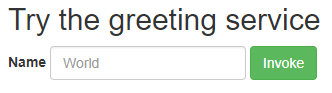
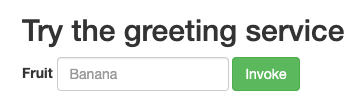
Updates for Spring Boot externalized configuration
Part of openshift-labs/learn-katacoda#1060

Changed region(s): [[0.0, 0.086, 0.9639, 0.4516], [0.0, 0.4946, 0.9639, 0.8602], [0.8434, 0.086, 0.8735, 0.129]]

diff --git a/middleware/middleware-spring-boot/microservices-1/02-deploy-to-openshift.md b/middleware/middleware-spring-boot/microservices-1/02-deploy-to-openshift.md
@@ -1,12 +1,8 @@
-# Login and Deploy to OpenShift Application Platform
+# Deploy to OpenShift Application Platform
 
-**1. Login to the OpenShift Container Platform**
+**1. Create a project**
 
-To login, we will use the `oc` command and then specify a username and password like this:
-
-``oc login [[HOST_SUBDOMAIN]]-8443-[[KATACODA_HOST]].environments.katacoda.com --insecure-skip-tls-verify=true -u developer -p developer``{{execute}}
-
-Next we create the project that we'll be adding our application to:
+Let's first create a new project:
 
 ``oc new-project dev --display-name="Dev - Spring Boot App"``{{execute}}
 
@@ -14,44 +10,39 @@ Next we create the project that we'll be adding our application to:
 
 Before we deploy the application, we have to make a few changes so our application runs smoothly using External Configurations.
 
-The first step is we're going to assign view access rights to the our deveoper account. We have to do this before deploying the application so that it's able to access the OpenShift API and read the contents of the ConfigMap. We can do that with the following command:
+The first step is we're going to assign view access rights to the service account we're logged in as. We have to do this before deploying the application so that it's able to access the OpenShift API and read the contents of the `ConfigMap`. We can do that with the following command:
 
 ``oc policy add-role-to-user view -n $(oc project -q) -z default``{{execute}}
 
-We should see `role "view" added: "default"` as output. The next step is to create our ConfigMap configuration and deploy it to OpenShift using:
+We should see `clusterrole.rbac.authorization.k8s.io/view added: "default"` as output. The next step is to create our `ConfigMap` configuration and deploy it to OpenShift using:
 
-``oc create configmap app-config --from-file=greeting-service/src/main/etc/application.properties``{{execute}}
+``oc create configmap spring-boot-configmap-greeting --from-file=src/main/etc/application.properties``{{execute}}
 
-We will talk about ConfigMaps in greater detail in the next section.
+We will talk about `ConfigMap`s in greater detail in the next section.
 
->**NOTE:** The only two parameters this command needs are the name of the ConfigMap to create and the file location. This command is creating a ConfigMap named `app-config`. We're going to be using that name in future commands. If you decide to manually run the command or give the ConfigMap a different name, make sure you modify the other commands accordingly.
+>**NOTE:** The only two parameters this command needs are the name of the ConfigMap to create and the file location. This command is creating a `ConfigMap` named `spring-boot-configmap-greeting`, which also happens to be the name of the application we're deploying. We're going to be using that name in future commands. If you decide to manually run the command or give the `ConfigMap` a different name, make sure you modify the other commands and configuration accordingly.
 
 Now we're ready to deploy!
 
 **3. Deploy the application to OpenShift**
 
-Run the following command to deploy the application to OpenShift
+Run the following command to deploy the application to OpenShift:
 
-``mvn package fabric8:deploy -Popenshift``{{execute}}
+``mvn oc:deploy -Popenshift``{{execute}}
 
 There's a lot that happens here so lets break it down:
 
-The `mvn package` piece of the above command instructs Maven to run the package lifecycle. This builds a Spring Boot JAR file which is a Fat Jar containing all dependencies necessary to run our application.
+For the deployment to OpenShift we are using the [JKube](https://www.eclipse.org/jkube/) tool through the [`openshift-maven-plugin`](https://www.eclipse.org/jkube/docs/openshift-maven-plugin), which is configured in our ``pom.xml``{{open}} (found in the `<profiles/>` section). The deployment may take a few minutes to complete.
 
-For the deployment to OpenShift we are using the [Fabric8](https://fabric8.io/) tool through the `fabric8-maven-plugin` which is configured in our ``pom.xml``{{open}} (found in the `<profiles/>` section).
+You can run the command ``oc rollout status -w dc/spring-boot-configmap-greeting``{{execute}} to watch and wait for the deployment to complete.
 
-Now that our application is deployed, navigate to our route in the OpenShift Web View or click [here](http://spring-boot-configmap-greeting-dev.[[HOST_SUBDOMAIN]]-80-[[KATACODA_HOST]].environments.katacoda.com/). We should see the following screen, meaning everything was successful:
+Once the application deployment completes, navigate to our route in the OpenShift Web View or click [here](http://spring-boot-configmap-greeting-dev.[[HOST_SUBDOMAIN]]-80-[[KATACODA_HOST]].environments.katacoda.com/). We should see the following screen, meaning everything was successful:
 
 ![Greeting Service](/openshift/assets/middleware/rhoar-microservices/greeting-service-mini.png)
 
 **4. Test functionality**
 
-As the page suggests, we're going to put in a name and let our greeting service reply with a given greeting. Since our default value is `Greetings, you picked %s as your favorite fruit!`, that's what we should see after we fill in the textbox and click the button. 
-
-<!-- And indeed that's what we see:
-
-![Hello Message](/openshift/assets/middleware/rhoar-microservices/hello-message.png) -->
-
+As the page suggests, we're going to put in a name of a fruit and let our greeting service reply with a given greeting. Since our default value in our `ConfigMap` is `Greetings, you picked %s as your favorite fruit!`, that's what we should see after we fill in the textbox and click the button. 
 
 ## Congratulations
 

diff --git a/middleware/middleware-spring-boot/microservices-1/03-modify-the-configmap.md b/middleware/middleware-spring-boot/microservices-1/03-modify-the-configmap.md
@@ -2,11 +2,12 @@
 
 **1. The ConfigMap**
 
-Configs maps are a useful tool for decoupling configuration settings from the code. ConfigMaps can be used to inject configuration data into a container in much the same way that secrets do, though ConfigMaps should not store confidential information. ConfigMap objects hold key-pair values representing all of your configuration data. 
+`ConfigMap`s are a useful tool for decoupling configuration settings from the code. `ConfigMap`s can be used to inject configuration data into a container in much the same way that secrets do, though `ConfigMap`s should not store confidential information. `ConfigMap` objects hold key-pair values representing all of your configuration data. 
 
-Notice the following dependency that was added to our `greeting-service/pom.xml`{{open}}. This allows us to integrate with OpenShift's ConfigMaps.
+Notice the following dependency that was added to our `pom.xml`{{open}}. This allows us to integrate with OpenShift's ConfigMaps.
 
-```    <dependency>
+```    
+     <dependency>
        <groupId>org.springframework.cloud</groupId>
        <artifactId>spring-cloud-starter-kubernetes-config</artifactId>
      </dependency>
@@ -14,33 +15,25 @@ Notice the following dependency that was added to our `greeting-service/pom.xml`
 
 **2. Modify the ConfigMap**
 
-Let's modify the greeting that our service is returning to the user. Since we set up the greeting in a properties file, we will not need to make any code change to change the functionality. This means that we won't need to have any downtime for this change, we're able to modify the response through our newly created ConfigMap from the previous step. We can edit our config map in the OpenShift Console. Click the **OpenShift Console** tab, select `Resources > Config Maps`. Then Select our ConfigMap `app-config`
+Let's modify the greeting that our service is returning to the user. Since we set up the greeting in a properties file, we will not need to make any code change to change the functionality. This means that we won't need to have any downtime for this change, we're able to modify the response through our newly created `ConfigMap` from the previous step. We can edit our config map in the OpenShift Console. [Click here](https://console-openshift-console-[[HOST_SUBDOMAIN]]-443-[[KATACODA_HOST]].environments.katacoda.com/k8s/ns/dev/configmaps/spring-boot-configmap-greeting/yaml) to open our `ConfigMap` in a YAML editor.
 
-![Greeting Service](/openshift/assets/middleware/rhoar-microservices/configmap.png)
-
-Now Select `Edit YAML` from the actions menu in the upper right corner of the page. 
-
-![Greeting Service](/openshift/assets/middleware/rhoar-microservices/edityaml.png)
+   > **NOTE:** The username/password for the OpenShift console is `admin`.
 
 Change the `greeting.message` property to: `greeting.message=Bonjour, you picked %s as your favorite fruit!`
 
 ![Greeting Service](/openshift/assets/middleware/rhoar-microservices/editconfigmap.png)
 
-Hit `Save` and that's all there is to it!
+Hit `Save` (at the bottom of the editor) and that's all there is to it!
 
 **3. Test changes**
 
-Now that we've modified the ConfigMap and deployed our changes, let's test the greeting service and see if it's returning our new value.
+Now that we've modified the `ConfigMap` and deployed our changes, let's test the greeting service and see if it's returning our new value.
 Click [here](http://spring-boot-configmap-greeting-dev.[[HOST_SUBDOMAIN]]-80-[[KATACODA_HOST]].environments.katacoda.com/) and put in a test value and click the button. Now instead of seeing `Greetings ...`, we should be seeing:
 
 `Bonjour, you picked %s as your favorite fruit!`
-
-<!-- `Bonjour <name>...`! 
-
-![Bonjour Message](/openshift/assets/middleware/rhoar-microservices/bonjour-message-minier.png) -->
 
 This means that we were able to modify our application behavior through External Configuration of the `application.properties` file using a ConfigMap without having to even take down the application. That's pretty powerful!
 
 ## Congratulations
 
-You have now learned how to handle Externalized Configuration with ConfigMaps through OpenShift. By creating a configmap, we're able to modify application properties on the fly and simply rollout the new changes to our application.
+You have now learned how to handle Externalized Configuration with ConfigMaps through OpenShift. By creating a `ConfigMap`, we're able to modify application properties on the fly and simply rollout the new changes to our application.

diff --git a/middleware/middleware-spring-boot/microservices-1/01-review-the-initial-project.md b/middleware/middleware-spring-boot/microservices-1/01-review-the-initial-project.md
@@ -1,24 +1,24 @@
+# Import the code
+Let's refresh the code we'll be using. Run the following command to clone the sample project:
+
+`cd /root/projects && rm -rf rhoar-getting-started && git clone https://github.com/openshift-katacoda/rhoar-getting-started && cd rhoar-getting-started/spring/microservices-externalized-config`{{execute}}
+
 # Review the base structure of the application
-
-For your convenience, this scenario has been created using the OpenShift Launcher found [here](https://launch.openshift.io/launch/filtered-wizard/all). This launcher will automatically generate a zip file of a project that's in a ready-to-deploy state. We've selected the `Externalized Configuration` project and will be using the Spring Boot runtime option.
-
-
 **1. Understanding the Application**
 
-The project is a simple Greeting application, where a user inputs a fruit and is greeted by our service. Opening up our ``greeting-service/src/main/java/io/openshift/booster/service/FruitController.java``{{open}} file we can see the logic used to respond to our user. The interesting part of this logic is right here, where we retrieve the message:
+The project is a simple Greeting application, where a user inputs a fruit name and is greeted by our service. Opening up our ``src/main/java/com/example/service/FruitController.java``{{open}} file we can see the logic used to respond to our user. The interesting part of this logic is right here, where we retrieve the message:
 
 ```java
 String message = String.format(properties.getMessage(), name);
 ```
 
-If we take a closer look at this `properties` object, we see that it's of type `MessageProperties`. When we look at that file ``greeting-service/src/main/java/io/openshift/booster/service/MessageProperties.java``{{open}} we see an annotation linking to a configuration file, `@ConfigurationProperties("greeting")`, which is pointing to our ``greeting-service/src/main/resources/application-local.properties``{{open}} file.
+If we take a closer look at this `properties` object, we see that it's of type `MessageProperties`. When we look at that file ``src/main/java/com/example/service/MessageProperties.java``{{open}} we see an annotation linking to a configuration prefix, `@ConfigurationProperties("greeting")`, which is pointing to our ``src/main/resources/application-local.properties``{{open}} file.
 
-Our `application-local.properties` file contains only one property, `greeting.message`. This is the message that we return and display to the user. In order to get an understanding of the flow, let's run the application locally. First cd into the project directory and build the project:  
-``mvn -f greeting-service spring-boot:run``{{execute}}  
-  
-``mvn spring-boot:run``{{execute}}
+Our `application-local.properties` file contains only one property, `greeting.message`. This is the message that we return and display to the user. In order to get an understanding of the flow, let's run the application locally. On the terminal build the project:
 
-When the application finishes building click the **local web browser** or click [here](https://[[HOST_SUBDOMAIN]]-8080-[[KATACODA_HOST]].environments.katacoda.com/). You should see the same message that is in the `application-local.properties` file.
+``mvn spring-boot:run``{{execute}}  
+
+When the application finishes building, click the **local web browser** or click [here](https://[[CLIENT_SUBDOMAIN]]-8080-[[KATACODA_HOST]].environments.katacoda.com). You should see the same message that is in the `application-local.properties` file.
 
 Be sure to stop the application with `ctrl-c`.
 

diff --git a/middleware/middleware-spring-boot/microservices-1/99-outro.md b/middleware/middleware-spring-boot/microservices-1/99-outro.md
@@ -8,7 +8,7 @@ Spring Boot is a powerful and easy to use framework for developing everything fr
 
 More background and related information on Red Hat OpenShift Application Runtimes and Eclipse Vert.x can be found here:
 
-* [Red Hat OpenShift Application Runtimes for Developers](https://developers.redhat.com/rhoar) - Here you can get started with a project using different boosters and clone that project to your local computer. This also enables you to deploy your application on your own private OpenShift Container Platform or use OpenShift Online that is provided for free from Red Hat.
-* [Project Snowdrop homepage](https://snowdrop.me/) - This site has a lot of details of the work that Red Hat is doing to make Spring work great on Kubernetes and OpenShift.
+* [Red Hat Runtimes](https://www.redhat.com/en/products/runtimes) - Here you can get started with a project using different boosters and clone that project to your local computer. This also enables you to deploy your application on your own private OpenShift Container Platform or use OpenShift Online that is provided for free from Red Hat.
+* [Project Snowdrop homepage](https://snowdrop.dev/) - This site has a lot of details of the work that Red Hat is doing to make Spring work great on Kubernetes and OpenShift.
 
 

diff --git a/middleware/middleware-spring-boot/microservices-1/00-intro.md b/middleware/middleware-spring-boot/microservices-1/00-intro.md
@@ -1,1 +1,1 @@
-In this scenario you will learn more about developing Spring Boot Microservices using the [Red Hat OpenShift Application Runtimes](https://developers.redhat.com/products/rhoar) platform. You will learn about Externalized Configurations and how we can use Externalized Configurations to change specific values/variables without having to take down the entire application. <!-- and Health Checks. -->
+In this scenario you will learn more about developing Spring Boot Microservices using the [Red Hat Runtimes](https://www.redhat.com/en/products/runtimes) platform. You will learn about Externalized Configurations and how we can use Externalized Configurations to change specific values/variables without having to take down the entire application.
